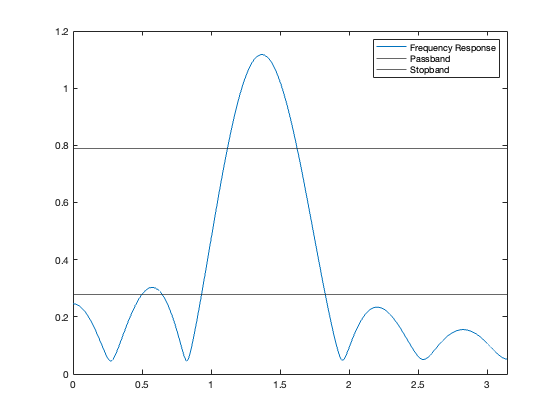
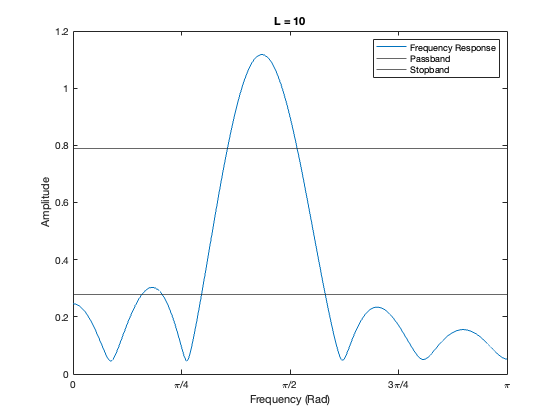
cleaned up 3.2b plots

diff --git a/LabP12_Exercise3/html/main.html b/LabP12_Exercise3/html/main.html
@@ -9,7 +9,7 @@ To make changes, update the MATLAB code and republish this document.
 <title>Frequency Response of FIR Filters: Lab P-12: 3 Lab Exercise</title>
 <meta name="generator" content="MATLAB 23.2">
 <link rel="schema.DC" href="http://purl.org/dc/elements/1.1/">
-<meta name="DC.date" content="2024-11-28">
+<meta name="DC.date" content="2024-11-29">
 <meta name="DC.source" content="main.m">
 <style type="text/css">
 html,body,div,span,applet,object,iframe,h1,h2,h3,h4,h5,h6,p,blockquote,pre,a,abbr,acronym,address,big,cite,code,del,dfn,em,font,img,ins,kbd,q,s,samp,small,strike,strong,tt,var,b,u,i,center,dl,dt,dd,ol,ul,li,fieldset,form,label,legend,table,caption,tbody,tfoot,thead,tr,th,td{margin:0;padding:0;border:0;outline:0;font-size:100%;vertical-align:baseline;background:transparent}body{line-height:1}ol,ul{list-style:none}blockquote,q{quotes:none}blockquote:before,blockquote:after,q:before,q:after{content:'';content:none}:focus{outine:0}ins{text-decoration:none}del{text-decoration:line-through}table{border-collapse:collapse;border-spacing:0}
@@ -104,19 +104,19 @@ table td { padding:7px 5px; text-align:left; vertical-align:top; border:1px soli
 <a href="#22">3.2a)</a>
 </li>
 <li>
-<a href="#24">3.2b)</a>
+<a href="#25">3.2b)</a>
 </li>
 <li>
-<a href="#29">3.2c)</a>
+<a href="#27">3.2c)</a>
 </li>
 <li>
-<a href="#30">3.2d)</a>
+<a href="#28">3.2d)</a>
 </li>
 <li>
-<a href="#31">3.2e)</a>
+<a href="#29">3.2e)</a>
 </li>
 <li>
-<a href="#32">3.2f)</a>
+<a href="#30">3.2f)</a>
 </li>
 </ul>
 </div>
@@ -209,55 +209,62 @@ gain3 =
     0.2337
 
 </pre>
-<h2 id="24">3.2b)</h2>
+<p>As expected, the center frequency remains near its original amplitude and frequencies far enough above and below the center frequency have been attenuated significantly.</p>
+<h2 id="25">3.2b)</h2>
 <p>Plot frequency response of the filter when L = 10, 20, 40</p>
 <pre class="codeinput">
 <span class="keyword">for</span> L = [10 20 40]
+  n = [0:L];
+  b = 2/L*cos(wc*n);
+  ww = -pi:pi/10000:pi;   <span class="comment">%The number of samples here has to be quite large to find the passband limits with using a reasonable rounding</span>
+  H_mag = abs(freqz(b,1,ww)); <span class="comment">%Frequency response of filter</span>
+  ww = 0:pi/10000:pi;
+  H_mag = H_mag(10001:end);  <span class="comment">%Looking at positive side of frequency response</span>
+  plot(ww, H_mag)
+  xlim([0 pi])
+  xticks([0:pi/4:pi])
+  xticklabels({<span class="string">'0'</span>, <span class="string">'\pi/4'</span>, <span class="string">'\pi/2'</span>, <span class="string">'3\pi/4'</span>, <span class="string">'\pi'</span>})
+  xlabel(<span class="string">'Frequency (Rad)'</span>)
+  ylabel(<span class="string">'Amplitude'</span>)
+  title([<span class="string">'L = '</span> num2str(L)])
+  hold <span class="string">on</span>
+  yline(max(H_mag)*0.707)
+  yline(max(H_mag)*0.25)
+  legend(<span class="string">'Frequency Response'</span>, <span class="string">'Passband'</span>, <span class="string">'Stopband'</span>)
+  hold <span class="string">off</span>
+  snapnow
+
+  <span class="comment">% Find passband width</span>
+
+  passband_limits = find(round(H_mag,2)==round(max(H_mag)*0.707,2));
+  passband_width = ww(max(passband_limits)) - ww(min(passband_limits))
+
+<span class="keyword">end</span>
 </pre>
-<pre class="codeinput">n = [0:L];
-b = 2/L*cos(wc*n);
-ww = -pi:pi/10000:pi;   <span class="comment">%The number of samples here has to be quite large to find the passband limits with using a reasonable rounding</span>
-H_mag = abs(freqz(b,1,ww)); <span class="comment">%Frequency response of filter</span>
-ww = 0:pi/10000:pi;
-H_mag = H_mag(10001:end);  <span class="comment">%Looking at positive side of frequency response</span>
-plot(ww, H_mag)
-xlim([0 pi])
-hold <span class="string">on</span>
-yline(max(H_mag)*0.707)
-yline(max(H_mag)*0.25)
-legend(<span class="string">'Frequency Response'</span>, <span class="string">'Passband'</span>, <span class="string">'Stopband'</span>)
-hold <span class="string">off</span>
-</pre>
-<img vspace="5" hspace="5" src="main_03.png" alt=""> <img vspace="5" hspace="5" src="main_04.png" alt=""> <img vspace="5" hspace="5" src="main_05.png" alt=""> <p>Find passband width</p>
-<pre class="codeinput">passband_limits = find(round(H_mag,2)==round(max(H_mag)*0.707,2));
-passband_width = ww(max(passband_limits)) - ww(min(passband_limits))
-</pre>
-<pre class="codeoutput">
+<img vspace="5" hspace="5" src="main_03.png" alt=""> <pre class="codeoutput">
 passband_width =
 
     0.5080
 
 </pre>
-<pre class="codeoutput">
+<img vspace="5" hspace="5" src="main_04.png" alt=""> <pre class="codeoutput">
 passband_width =
 
     0.2614
 
 </pre>
-<pre class="codeoutput">
+<img vspace="5" hspace="5" src="main_05.png" alt=""> <pre class="codeoutput">
 passband_width =
 
     0.1357
 
 </pre>
-<pre class="codeinput">
-<span class="keyword">end</span>
-</pre>
-<p>Doubling the parameter L from 10, 20, 40 has halved the passband width from about 0.5, 0.26, 0.135. This verifies the property stated in the lab instructions, that the passband is inversely proportional to L.</p>
-<h2 id="29">3.2c)</h2>
-<h2 id="30">3.2d)</h2>
-<h2 id="31">3.2e)</h2>
-<h2 id="32">3.2f)</h2>
+<p>Doubling the parameter L from 10, 20, 40 has halved the passband width from about 0.5, 0.26, 0.135. These values are not exact because with a discrete time signal a sample may not have the exact value of the threshold and we have to pick the next closest sample to be the limits of the passband. This verifies the property stated in the lab instructions, that the passband is inversely proportional to L.</p>
+<h2 id="27">3.2c)</h2>
+<p>The L = 10 filter passes frequencies at 0.44pi +/- about 0.25. As seen in part a), the magnitude of the frequency response at 0.44pi was near its full amplitude while the magnitudes at 0.3pi and 0.7pi were attenuated significantly.</p>
+<h2 id="28">3.2d)</h2>
+<h2 id="29">3.2e)</h2>
+<h2 id="30">3.2f)</h2>
 <p class="footer">
 <br>
 <a href="https://www.mathworks.com/products/matlab/">Published with MATLAB&reg; R2023b</a>
@@ -371,39 +378,55 @@ gain1 = abs(sum(b.*exp(-1*j*0.3*pi*n)))
 gain2 = abs(sum(b.*exp(-1*j*0.44*pi*n)))
 gain3 = abs(sum(b.*exp(-1*j*0.7*pi*n)))
 
+%%
+% As expected, the center frequency remains near its original amplitude and
+% frequencies far enough above and below the center frequency have been
+% attenuated significantly.
+
 %% 3.2b)
 % Plot frequency response of the filter when L = 10, 20, 40
 
 for L = [10 20 40]
-n = [0:L];
-b = 2/L*cos(wc*n);
-ww = -pi:pi/10000:pi;   %The number of samples here has to be quite large to find the passband limits with using a reasonable rounding
-H_mag = abs(freqz(b,1,ww)); %Frequency response of filter
-ww = 0:pi/10000:pi;      
-H_mag = H_mag(10001:end);  %Looking at positive side of frequency response
-plot(ww, H_mag)
-xlim([0 pi])
-hold on
-yline(max(H_mag)*0.707)
-yline(max(H_mag)*0.25)
-legend('Frequency Response', 'Passband', 'Stopband')
-hold off
+  n = [0:L];
+  b = 2/L*cos(wc*n);
+  ww = -pi:pi/10000:pi;   %The number of samples here has to be quite large to find the passband limits with using a reasonable rounding
+  H_mag = abs(freqz(b,1,ww)); %Frequency response of filter
+  ww = 0:pi/10000:pi;      
+  H_mag = H_mag(10001:end);  %Looking at positive side of frequency response
+  plot(ww, H_mag)
+  xlim([0 pi])
+  xticks([0:pi/4:pi])
+  xticklabels({'0', '\pi/4', '\pi/2', '3\pi/4', '\pi'})
+  xlabel('Frequency (Rad)')
+  ylabel('Amplitude')
+  title(['L = ' num2str(L)])
+  hold on
+  yline(max(H_mag)*0.707)
+  yline(max(H_mag)*0.25)
+  legend('Frequency Response', 'Passband', 'Stopband')
+  hold off
+  snapnow
+  
+  % Find passband width
 
-%%
-% Find passband width
-
-passband_limits = find(round(H_mag,2)==round(max(H_mag)*0.707,2));
-passband_width = ww(max(passband_limits)) - ww(min(passband_limits))
+  passband_limits = find(round(H_mag,2)==round(max(H_mag)*0.707,2));
+  passband_width = ww(max(passband_limits)) - ww(min(passband_limits))
 
 end
 
 %%
 % Doubling the parameter L from 10, 20, 40 has halved the passband width
-% from about 0.5, 0.26, 0.135. This verifies the property stated in the lab
+% from about 0.5, 0.26, 0.135. These values are not exact because with a 
+% discrete time signal a sample may not have the exact value of the 
+% threshold and we have to pick the next closest sample to be the limits of
+% the passband. This verifies the property stated in the lab
 % instructions, that the passband is inversely proportional to L.
 
 %% 3.2c)
-%
+% The L = 10 filter passes frequencies at 0.44pi +/- about 0.25. As seen in
+% part a), the magnitude of the frequency response at 0.44pi was near its
+% full amplitude while the magnitudes at 0.3pi and 0.7pi were attenuated
+% significantly.
 
 %% 3.2d)
 %

diff --git a/LabP12_Exercise3/main.m b/LabP12_Exercise3/main.m
@@ -112,25 +112,30 @@ gain3 = abs(sum(b.*exp(-1*j*0.7*pi*n)))
 % Plot frequency response of the filter when L = 10, 20, 40
 
 for L = [10 20 40]
-n = [0:L];
-b = 2/L*cos(wc*n);
-ww = -pi:pi/10000:pi;   %The number of samples here has to be quite large to find the passband limits with using a reasonable rounding
-H_mag = abs(freqz(b,1,ww)); %Frequency response of filter
-ww = 0:pi/10000:pi;      
-H_mag = H_mag(10001:end);  %Looking at positive side of frequency response
-plot(ww, H_mag)
-xlim([0 pi])
-hold on
-yline(max(H_mag)*0.707)
-yline(max(H_mag)*0.25)
-legend('Frequency Response', 'Passband', 'Stopband')
-hold off
+  n = [0:L];
+  b = 2/L*cos(wc*n);
+  ww = -pi:pi/10000:pi;   %The number of samples here has to be quite large to find the passband limits with using a reasonable rounding
+  H_mag = abs(freqz(b,1,ww)); %Frequency response of filter
+  ww = 0:pi/10000:pi;      
+  H_mag = H_mag(10001:end);  %Looking at positive side of frequency response
+  plot(ww, H_mag)
+  xlim([0 pi])
+  xticks([0:pi/4:pi])
+  xticklabels({'0', '\pi/4', '\pi/2', '3\pi/4', '\pi'})
+  xlabel('Frequency (Rad)')
+  ylabel('Amplitude')
+  title(['L = ' num2str(L)])
+  hold on
+  yline(max(H_mag)*0.707)
+  yline(max(H_mag)*0.25)
+  legend('Frequency Response', 'Passband', 'Stopband')
+  hold off
+  snapnow
+  
+  % Find passband width
 
-%%
-% Find passband width
-
-passband_limits = find(round(H_mag,2)==round(max(H_mag)*0.707,2));
-passband_width = ww(max(passband_limits)) - ww(min(passband_limits))
+  passband_limits = find(round(H_mag,2)==round(max(H_mag)*0.707,2));
+  passband_width = ww(max(passband_limits)) - ww(min(passband_limits))
 
 end
 
